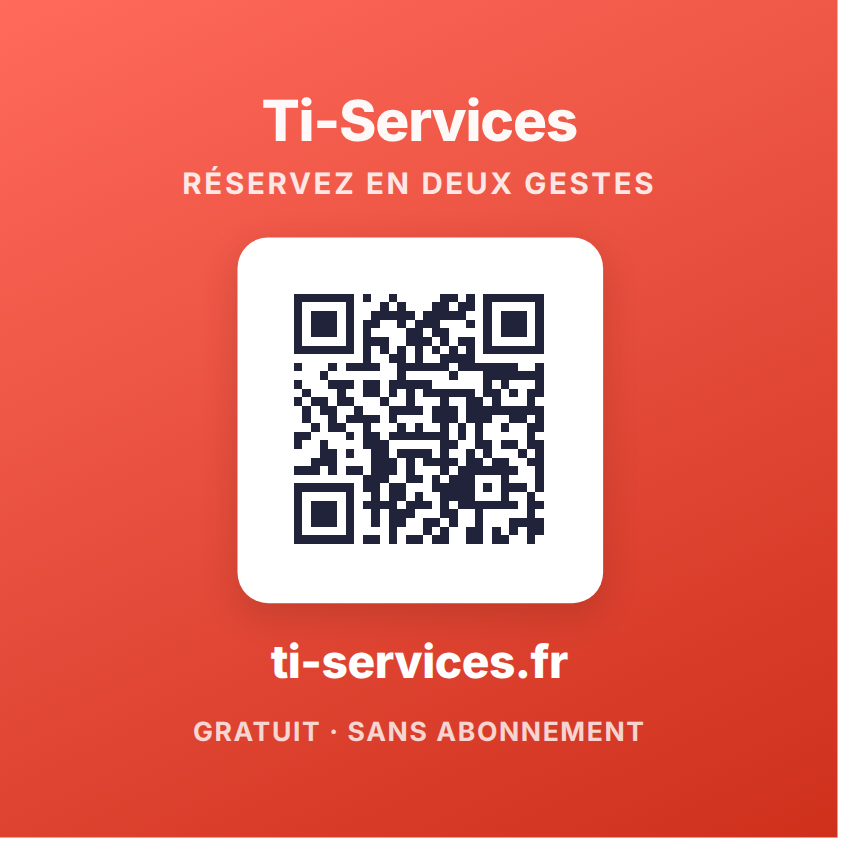
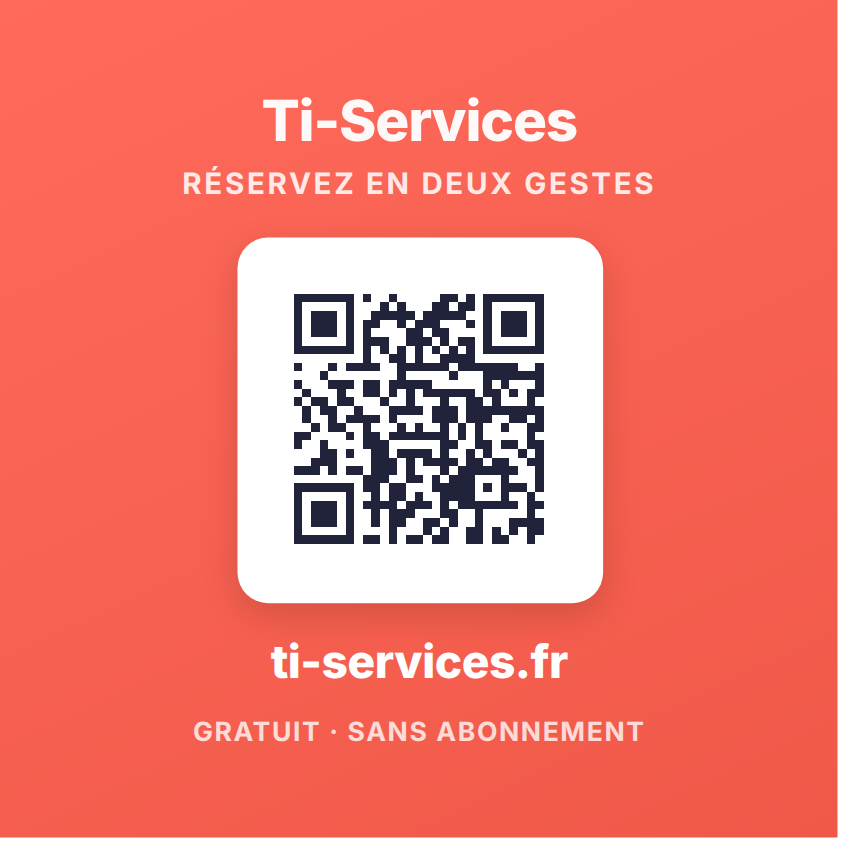
Le corail s'éclaircit : le dégradé ne descend plus au corail profond
« Le corail plus léger, ça fait foncé à l'impression. »

C'EST LE BAS DU DÉGRADÉ QUI DONNAIT SON POIDS À LA FACE. Il allait de #FF6A5B à
#CE301C — une encre saturée perd toujours de la clarté en passant en CMJN, et ce
bas de dégradé vire au rouge sombre. Il s'arrête maintenant à trois dixièmes de
corail profond, soit #F05948 : la face s'éclaircit franchement sans quitter la
marque.

ON NE TOUCHE PAS AU HAUT, ET C'EST MESURÉ. C'est là que se lit le nom, et son
contraste avec le blanc y est déjà le plus faible de la face (2,81 contre 1) :
l'éclaircir aurait coûté de la lisibilité là où elle est le plus juste. Le bas
passe de 5,17 à 3,37 — au-dessus du seuil d'un texte large et gras, qui est de 3.

LA TEINTE N'EST PAS CHOISIE À LA MAIN. On déclare une PROPORTION entre deux
jetons du `:root` de l'application, et le fichier porte l'hexadécimal calculé :
lisible par qui ouvre le PDF, et refait tout seul si la marque change. La
proportion se règle sur une ligne si c'est encore trop sombre au tirage ; en
dessous de deux dixièmes, le texte blanc commence à manquer de tenue, et le
LISEZ-MOI le dit.

Claude-Session: https://claude.ai/code/session_01B1qVriNodXiFWvRCrD4uyG

diff --git a/outils/cartes-visite.js b/outils/cartes-visite.js
@@ -60,6 +60,16 @@ function couleurs(src) {
   return c;
 }
 
+/* MÉLANGER DEUX TEINTES DE MARQUE. On ne choisit pas une couleur « à la main » : on
+   déclare une PROPORTION entre deux jetons du `:root`, et le fichier porte l'hexadécimal
+   calculé — lisible par qui ouvre le PDF, et refait tout seul si la marque change. */
+function melange(a, b, part) {
+  const lire = h => [1, 3, 5].map(i => parseInt(h.slice(i, i + 2), 16));
+  const [r1, g1, b1] = lire(a), [r2, g2, b2] = lire(b);
+  const m = (x, y) => Math.round(x * (1 - part) + y * part).toString(16).padStart(2, '0');
+  return '#' + m(r1, r2) + m(g1, g2) + m(b1, b2);
+}
+
 // L'encodeur de QR-code de l'application, exécuté tel quel. On le délimite par deux
 // repères stables ; s'ils bougent, on lève plutôt que de produire un QR d'une autre source.
 function qrDeLApp(src) {
@@ -206,7 +216,14 @@ function feuille(c, polices) {
       radial-gradient(64% 52% at 106% 6%, #A26A0C14, transparent 58%),
       radial-gradient(76% 60% at 60% 112%, #5EC9C11A, transparent 60%),
       ${c['sand']}}
-  .verso{background:linear-gradient(155deg, ${c['teal']} 0%, ${c['teal-deep']} 100%);color:#fff}
+  /* LE DÉGRADÉ NE DESCEND PLUS JUSQU'AU CORAIL PROFOND. Il allait de #FF6A5B à #CE301C :
+     à l'impression, ce bas de dégradé vire au rouge sombre — une encre saturée perd
+     toujours de la clarté en passant en CMJN, et c'est le point le plus foncé qui donne
+     son poids à toute la face. On garde le corail de marque en HAUT, là où se lit le nom
+     (rien ne change donc pour le contraste du texte blanc, déjà le plus faible à cet
+     endroit), et on remonte seulement le BAS : trois dixièmes de corail profond au lieu
+     de la teinte pure. La face s'éclaircit sans quitter la marque. */
+  .verso{background:linear-gradient(155deg, ${c['teal']} 0%, ${melange(c['teal'], c['teal-deep'], .3)} 100%);color:#fff}
 
   /* LES TAILLES DU RECTO SONT CELLES QUI TIENNENT DANS LA MARGE DE SÉCURITÉ, mesurées
      après coup : la grille des métiers a coûté une dizaine de millimètres de hauteur, et

diff --git a/outils/cartes/carte-client-recto.html b/outils/cartes/carte-client-recto.html
@@ -25,7 +25,14 @@
       radial-gradient(64% 52% at 106% 6%, #A26A0C14, transparent 58%),
       radial-gradient(76% 60% at 60% 112%, #5EC9C11A, transparent 60%),
       #FBF7F4}
-  .verso{background:linear-gradient(155deg, #FF6A5B 0%, #CE301C 100%);color:#fff}
+  /* LE DÉGRADÉ NE DESCEND PLUS JUSQU'AU CORAIL PROFOND. Il allait de #FF6A5B à #CE301C :
+     à l'impression, ce bas de dégradé vire au rouge sombre — une encre saturée perd
+     toujours de la clarté en passant en CMJN, et c'est le point le plus foncé qui donne
+     son poids à toute la face. On garde le corail de marque en HAUT, là où se lit le nom
+     (rien ne change donc pour le contraste du texte blanc, déjà le plus faible à cet
+     endroit), et on remonte seulement le BAS : trois dixièmes de corail profond au lieu
+     de la teinte pure. La face s'éclaircit sans quitter la marque. */
+  .verso{background:linear-gradient(155deg, #FF6A5B 0%, #f05948 100%);color:#fff}
 
   /* LES TAILLES DU RECTO SONT CELLES QUI TIENNENT DANS LA MARGE DE SÉCURITÉ, mesurées
      après coup : la grille des métiers a coûté une dizaine de millimètres de hauteur, et

diff --git a/outils/cartes/carte-client-verso.html b/outils/cartes/carte-client-verso.html
@@ -25,7 +25,14 @@
       radial-gradient(64% 52% at 106% 6%, #A26A0C14, transparent 58%),
       radial-gradient(76% 60% at 60% 112%, #5EC9C11A, transparent 60%),
       #FBF7F4}
-  .verso{background:linear-gradient(155deg, #FF6A5B 0%, #CE301C 100%);color:#fff}
+  /* LE DÉGRADÉ NE DESCEND PLUS JUSQU'AU CORAIL PROFOND. Il allait de #FF6A5B à #CE301C :
+     à l'impression, ce bas de dégradé vire au rouge sombre — une encre saturée perd
+     toujours de la clarté en passant en CMJN, et c'est le point le plus foncé qui donne
+     son poids à toute la face. On garde le corail de marque en HAUT, là où se lit le nom
+     (rien ne change donc pour le contraste du texte blanc, déjà le plus faible à cet
+     endroit), et on remonte seulement le BAS : trois dixièmes de corail profond au lieu
+     de la teinte pure. La face s'éclaircit sans quitter la marque. */
+  .verso{background:linear-gradient(155deg, #FF6A5B 0%, #f05948 100%);color:#fff}
 
   /* LES TAILLES DU RECTO SONT CELLES QUI TIENNENT DANS LA MARGE DE SÉCURITÉ, mesurées
      après coup : la grille des métiers a coûté une dizaine de millimètres de hauteur, et

diff --git a/outils/cartes/carte-duo-recto.html b/outils/cartes/carte-duo-recto.html
@@ -25,7 +25,14 @@
       radial-gradient(64% 52% at 106% 6%, #A26A0C14, transparent 58%),
       radial-gradient(76% 60% at 60% 112%, #5EC9C11A, transparent 60%),
       #FBF7F4}
-  .verso{background:linear-gradient(155deg, #FF6A5B 0%, #CE301C 100%);color:#fff}
+  /* LE DÉGRADÉ NE DESCEND PLUS JUSQU'AU CORAIL PROFOND. Il allait de #FF6A5B à #CE301C :
+     à l'impression, ce bas de dégradé vire au rouge sombre — une encre saturée perd
+     toujours de la clarté en passant en CMJN, et c'est le point le plus foncé qui donne
+     son poids à toute la face. On garde le corail de marque en HAUT, là où se lit le nom
+     (rien ne change donc pour le contraste du texte blanc, déjà le plus faible à cet
+     endroit), et on remonte seulement le BAS : trois dixièmes de corail profond au lieu
+     de la teinte pure. La face s'éclaircit sans quitter la marque. */
+  .verso{background:linear-gradient(155deg, #FF6A5B 0%, #f05948 100%);color:#fff}
 
   /* LES TAILLES DU RECTO SONT CELLES QUI TIENNENT DANS LA MARGE DE SÉCURITÉ, mesurées
      après coup : la grille des métiers a coûté une dizaine de millimètres de hauteur, et

diff --git a/outils/cartes/carte-duo-verso.html b/outils/cartes/carte-duo-verso.html
@@ -25,7 +25,14 @@
       radial-gradient(64% 52% at 106% 6%, #A26A0C14, transparent 58%),
       radial-gradient(76% 60% at 60% 112%, #5EC9C11A, transparent 60%),
       #FBF7F4}
-  .verso{background:linear-gradient(155deg, #FF6A5B 0%, #CE301C 100%);color:#fff}
+  /* LE DÉGRADÉ NE DESCEND PLUS JUSQU'AU CORAIL PROFOND. Il allait de #FF6A5B à #CE301C :
+     à l'impression, ce bas de dégradé vire au rouge sombre — une encre saturée perd
+     toujours de la clarté en passant en CMJN, et c'est le point le plus foncé qui donne
+     son poids à toute la face. On garde le corail de marque en HAUT, là où se lit le nom
+     (rien ne change donc pour le contraste du texte blanc, déjà le plus faible à cet
+     endroit), et on remonte seulement le BAS : trois dixièmes de corail profond au lieu
+     de la teinte pure. La face s'éclaircit sans quitter la marque. */
+  .verso{background:linear-gradient(155deg, #FF6A5B 0%, #f05948 100%);color:#fff}
 
   /* LES TAILLES DU RECTO SONT CELLES QUI TIENNENT DANS LA MARGE DE SÉCURITÉ, mesurées
      après coup : la grille des métiers a coûté une dizaine de millimètres de hauteur, et

diff --git a/outils/cartes/carte-pro-recto.html b/outils/cartes/carte-pro-recto.html
@@ -25,7 +25,14 @@
       radial-gradient(64% 52% at 106% 6%, #A26A0C14, transparent 58%),
       radial-gradient(76% 60% at 60% 112%, #5EC9C11A, transparent 60%),
       #FBF7F4}
-  .verso{background:linear-gradient(155deg, #FF6A5B 0%, #CE301C 100%);color:#fff}
+  /* LE DÉGRADÉ NE DESCEND PLUS JUSQU'AU CORAIL PROFOND. Il allait de #FF6A5B à #CE301C :
+     à l'impression, ce bas de dégradé vire au rouge sombre — une encre saturée perd
+     toujours de la clarté en passant en CMJN, et c'est le point le plus foncé qui donne
+     son poids à toute la face. On garde le corail de marque en HAUT, là où se lit le nom
+     (rien ne change donc pour le contraste du texte blanc, déjà le plus faible à cet
+     endroit), et on remonte seulement le BAS : trois dixièmes de corail profond au lieu
+     de la teinte pure. La face s'éclaircit sans quitter la marque. */
+  .verso{background:linear-gradient(155deg, #FF6A5B 0%, #f05948 100%);color:#fff}
 
   /* LES TAILLES DU RECTO SONT CELLES QUI TIENNENT DANS LA MARGE DE SÉCURITÉ, mesurées
      après coup : la grille des métiers a coûté une dizaine de millimètres de hauteur, et

diff --git a/outils/cartes/carte-pro-verso.html b/outils/cartes/carte-pro-verso.html
@@ -25,7 +25,14 @@
       radial-gradient(64% 52% at 106% 6%, #A26A0C14, transparent 58%),
       radial-gradient(76% 60% at 60% 112%, #5EC9C11A, transparent 60%),
       #FBF7F4}
-  .verso{background:linear-gradient(155deg, #FF6A5B 0%, #CE301C 100%);color:#fff}
+  /* LE DÉGRADÉ NE DESCEND PLUS JUSQU'AU CORAIL PROFOND. Il allait de #FF6A5B à #CE301C :
+     à l'impression, ce bas de dégradé vire au rouge sombre — une encre saturée perd
+     toujours de la clarté en passant en CMJN, et c'est le point le plus foncé qui donne
+     son poids à toute la face. On garde le corail de marque en HAUT, là où se lit le nom
+     (rien ne change donc pour le contraste du texte blanc, déjà le plus faible à cet
+     endroit), et on remonte seulement le BAS : trois dixièmes de corail profond au lieu
+     de la teinte pure. La face s'éclaircit sans quitter la marque. */
+  .verso{background:linear-gradient(155deg, #FF6A5B 0%, #f05948 100%);color:#fff}
 
   /* LES TAILLES DU RECTO SONT CELLES QUI TIENNENT DANS LA MARGE DE SÉCURITÉ, mesurées
      après coup : la grille des métiers a coûté une dizaine de millimètres de hauteur, et

diff --git a/outils/cartes/LISEZ-MOI.md b/outils/cartes/LISEZ-MOI.md
@@ -99,6 +99,15 @@ Le corail du verso est un aplat saturé : sur un papier non couché il paraîtra
 et légèrement plus sombre qu'à l'écran. C'est normal, et c'est la raison de demander un
 **BAT** ou un échantillon avant un gros tirage.
 
+**Le dégradé a été éclairci** pour cette raison : il descendait jusqu'au corail profond
+(`#CE301C`), qui vire au rouge sombre en CMJN et donnait son poids à toute la face. Il
+s'arrête maintenant à trois dixièmes de cette teinte (`#F05948`). Le haut ne bouge pas :
+c'est là que se lit le nom, et son contraste avec le blanc était déjà le plus faible de la
+face — l'éclaircir aurait coûté de la lisibilité. Si c'est encore trop sombre au tirage,
+la proportion se règle sur une ligne (`melange(c['teal'], c['teal-deep'], .3)` dans
+`outils/cartes-visite.js`) ; en dessous de deux dixièmes, le texte blanc commence à
+manquer de tenue.
+
 ## Régénérer
 
 ```bash
